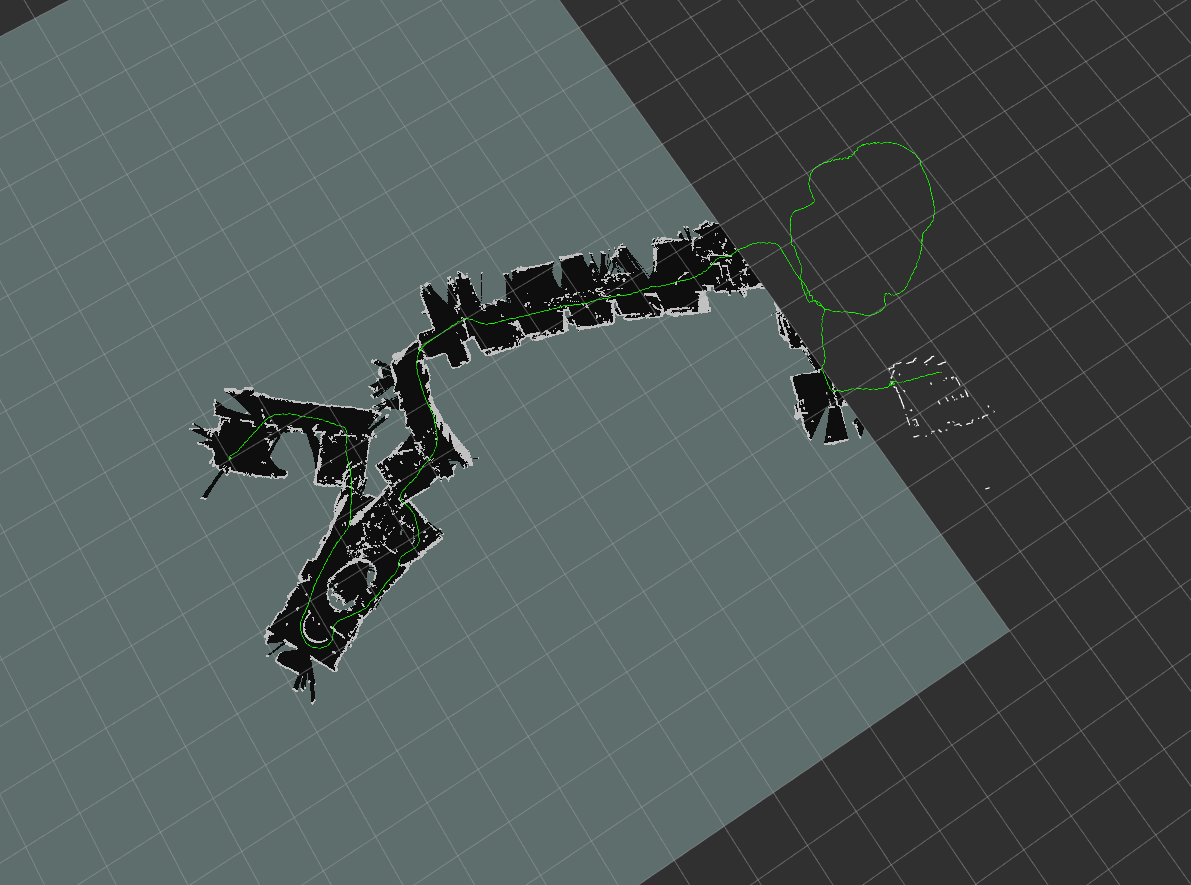
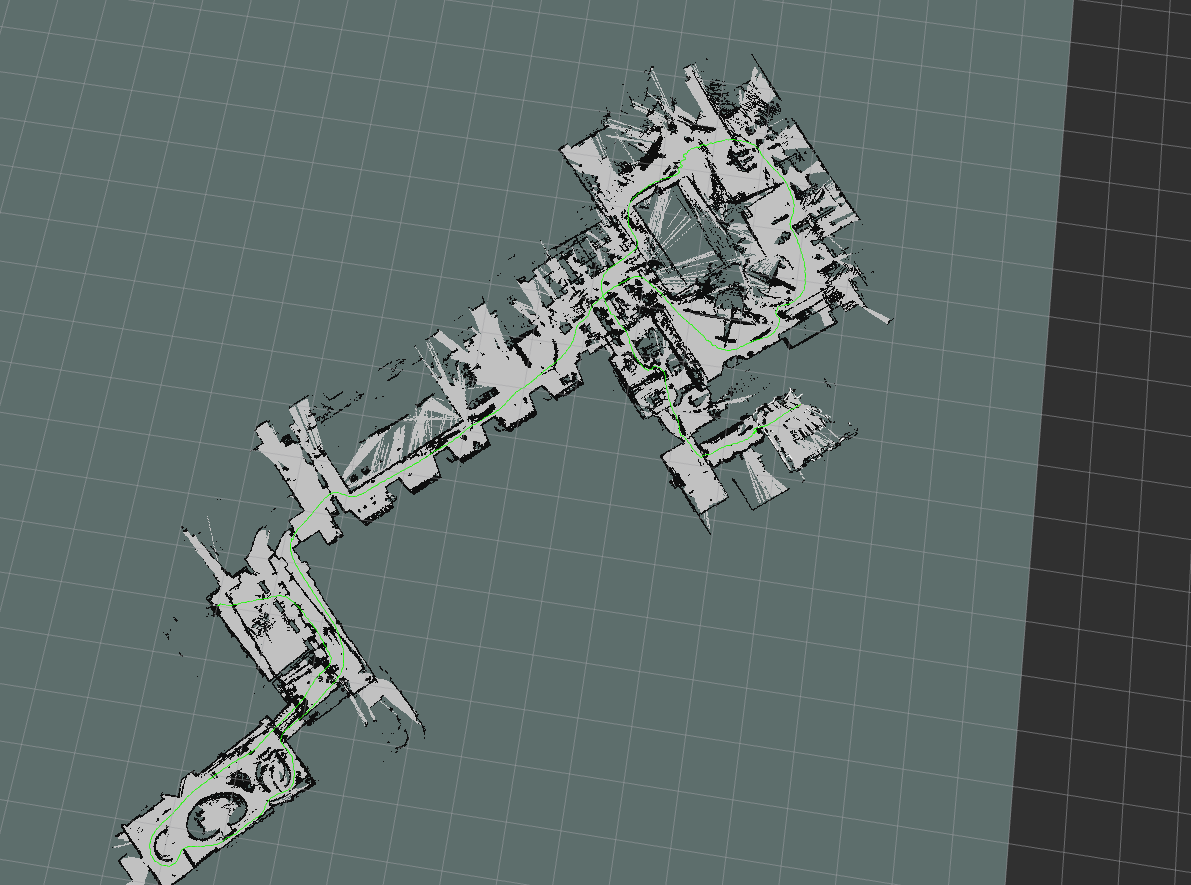
update readme and result

diff --git a/README.md b/README.md
@@ -1,16 +1,25 @@
 # 1. slam2d
 * scan match
 * correspondence
+* scan-to-map match
 * map update
 
+![gif](https://github.com/libing64/slam2d/blob/master/image/slam2d.gif) 
+![slam2d](https://github.com/libing64/slam2d/blob/master/image/slam2d.png) 
 
-## 1.1 scan match
-ICP/PLICP method is used for scan match estimation, and ceres is used as the nonlinear solve with point to line contraints.
+
+## 1.1 scan-to-scan match
+ICP/PLICP method is used for scan-to-scan match, and ceres is used as the nonlinear solver with point-to-line contraints.
 
 ## 1.2 correspondence
 KNN method of pcl lib is used to find point correspondence
 
-## 1.3 map update
+
+## 1.3 scan-to-map match
+find local optimal with random search
+
+
+## 1.4 map update
 OpenCV function line and circle is used to update grid map.
 
 
@@ -38,6 +47,7 @@ rosbag play youbag
 ```
 cartographer dataset:
 
+
 https://google-cartographer-ros.readthedocs.io/en/latest/data.html
 
 ![rosgraph](https://github.com/libing64/slam2d/blob/master/image/slam2d_rosgraph.png) 
@@ -50,17 +60,53 @@ https://google-cartographer-ros.readthedocs.io/en/latest/data.html
 * Eigen
 * ceres
 
-## 2.4 result
-
 # 3. TODO
-* scan-to-map match
-* keyframe selection to reduce drift
-* dynamic range 2d map
+- [ ] how to reduce the drift
+- [ ] how to improve the mapping accurcy
+- [x] scan-to-map match
+- [ ] keyframe selection to reduce drift
+- [ ] dynamic range 2d map
+- [x] search local optimal
+- [ ] record gif with byzana-record
+- [ ] sparse pose adjust
+- [ ] loop closure
 
-# 4. Reference
+
+
+
+# 4. Comparison of 2D SLAM
+## 4.1 Hector SLAM
+* scan-to-scan match and scan-to-map match, Gaussian-Newton 
+* need high rate scan data
+* 2.5D SLAM
+* multi-resolution map to avoid local minima
+  
+## 4.2 GMapping
+* Rao-Blackwellized Particle filter approach
+
+## 4.3 Karto SLAM
+* graph-based approach
+* landmark based
+* Cholesky decomposition for solving sparse linar system
+* loop closure
+* sparse pose adjustment(just like bundle adjustment)
+
+## 4.4 CoreSLAM
+* ros wrapper of tinySLAM(200 lines-of-code)
+* partical filter based approach
+  
+## 4.5 LagoSLAM
+* Graph optimization -> Linear approximation of Graph optimization
+* linear so no initial value needed
+
+## 5. map comparision 
+* grid_map https://github.com/ANYbotics/grid_map
+* costmap_2d http://wiki.ros.org/costmap_2d
+* OctoMap  https://octomap.github.io/
+
+# 6. Reference
 * An ICP variant using a point-to-line metric
 * A flexible and Scalable SLAM System with Full 3D motion Estimation
 * Real-Time Loop Closure in 2D LIDAR SLAM
+* Grid-based Scan-to-Map Matching for Accurate 2D Map Building
 
-# 5. Problem
-## 5.1 scan to map align or local map to map align not work
